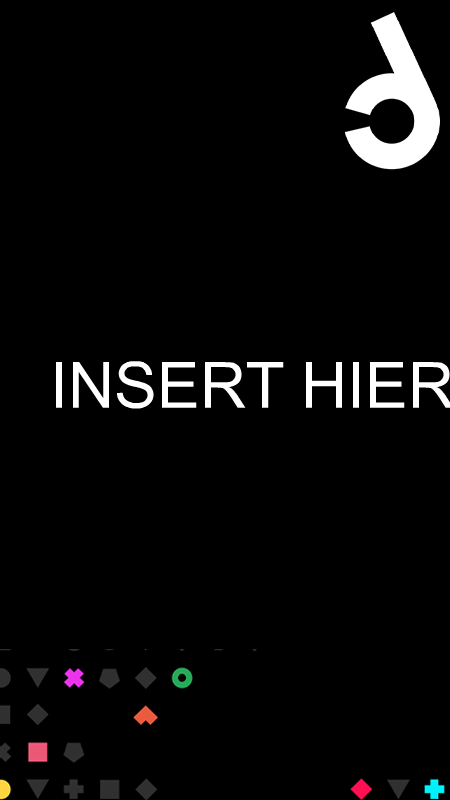
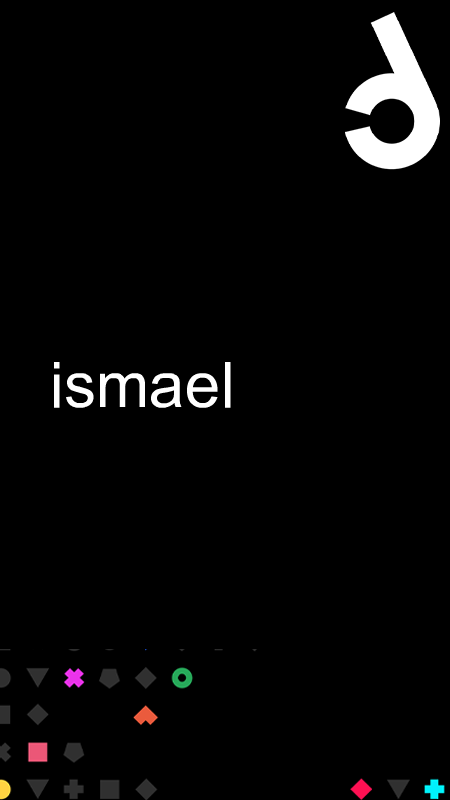
Working Main.js

Changed region(s): [[0.0933, 0.4375, 0.6222, 0.5312], [0.6533, 0.4375, 1.0, 0.5312]]

diff --git a/Api2Img2NFT Demo/Api2Img/content.js b/Api2Img2NFT Demo/Api2Img/content.js
@@ -1,33 +1,33 @@
-const Jimp = require("jimp");
-const name = "INSERT HIER RESPONSE.NAME";
+// const Jimp = require("jimp");
+// const name = "ismael";
 
-(async function(){
+// (async function(){
 
-    //Read the image
-    const image = await Jimp.read("imagesTemplate/handpickedDiploma.png");
+//     //Read the image
+//     const image = await Jimp.read("imagesTemplate/handpickedDiploma.png");
 
-    //load Font
-    Jimp.loadFont(Jimp.FONT_SANS_64_WHITE).then(font => {
-        image
-        //Insert Text
-        .print(
-            font, 
-            50, //x
-            350, //y
-            name //De text op de IMG
-        )
-        //Save Text
-        .write("imagesTemplate/edited-handpickedDiploma.png");
-    });
-})();
+//     //load Font
+//     Jimp.loadFont(Jimp.FONT_SANS_64_WHITE).then(font => {
+//         image
+//         //Insert Text
+//         .print(
+//             font, 
+//             50, //x
+//             350, //y
+//             name //De text op de IMG
+//         )
+//         //Save Text
+//         .write("imagesTemplate/edited-handpickedDiploma.png");
+//     });
+// })();
 
 
 //Gebruik dit om Api op te halen en dingen in de forground te gebruiken
-//chrome.runtime.sendMessage({jsName: "getUserInfo"}, (response)=>{
-//    console.log(response);
+chrome.runtime.sendMessage({jsName: "getUserInfo"}, (response)=>{
+   console.log(response);
 
     
-//});
+});
 
 
 

diff --git a/Api2Img2NFT Demo/Js2Img/main.js b/Api2Img2NFT Demo/Js2Img/main.js
@@ -1,7 +1,21 @@
-const Jimp = require("jimp");
-const name = "Coole NFT";
+import { createRequire } from 'module';
+const require = createRequire(import.meta.url);
 
-(async function(){
+const fs = require('fs');
+let name;
+
+fs.readFile('fakeAPI/hupber.json', (err, data) => {
+    if (err) throw err;
+    name = JSON.parse(data).firstname;
+    console.log(name);
+
+    generateIMG(name);
+});
+
+
+const Jimp = require("jimp");
+
+async function generateIMG(name){
     
     //Read the image
     const image = await Jimp.read("imagesTemplate/handpickedDiploma.png");
@@ -19,4 +33,5 @@ const name = "Coole NFT";
         //Save Text
         .write("imagesTemplate/edited-handpickedDiploma.png");
     });
-})();
+};
+
